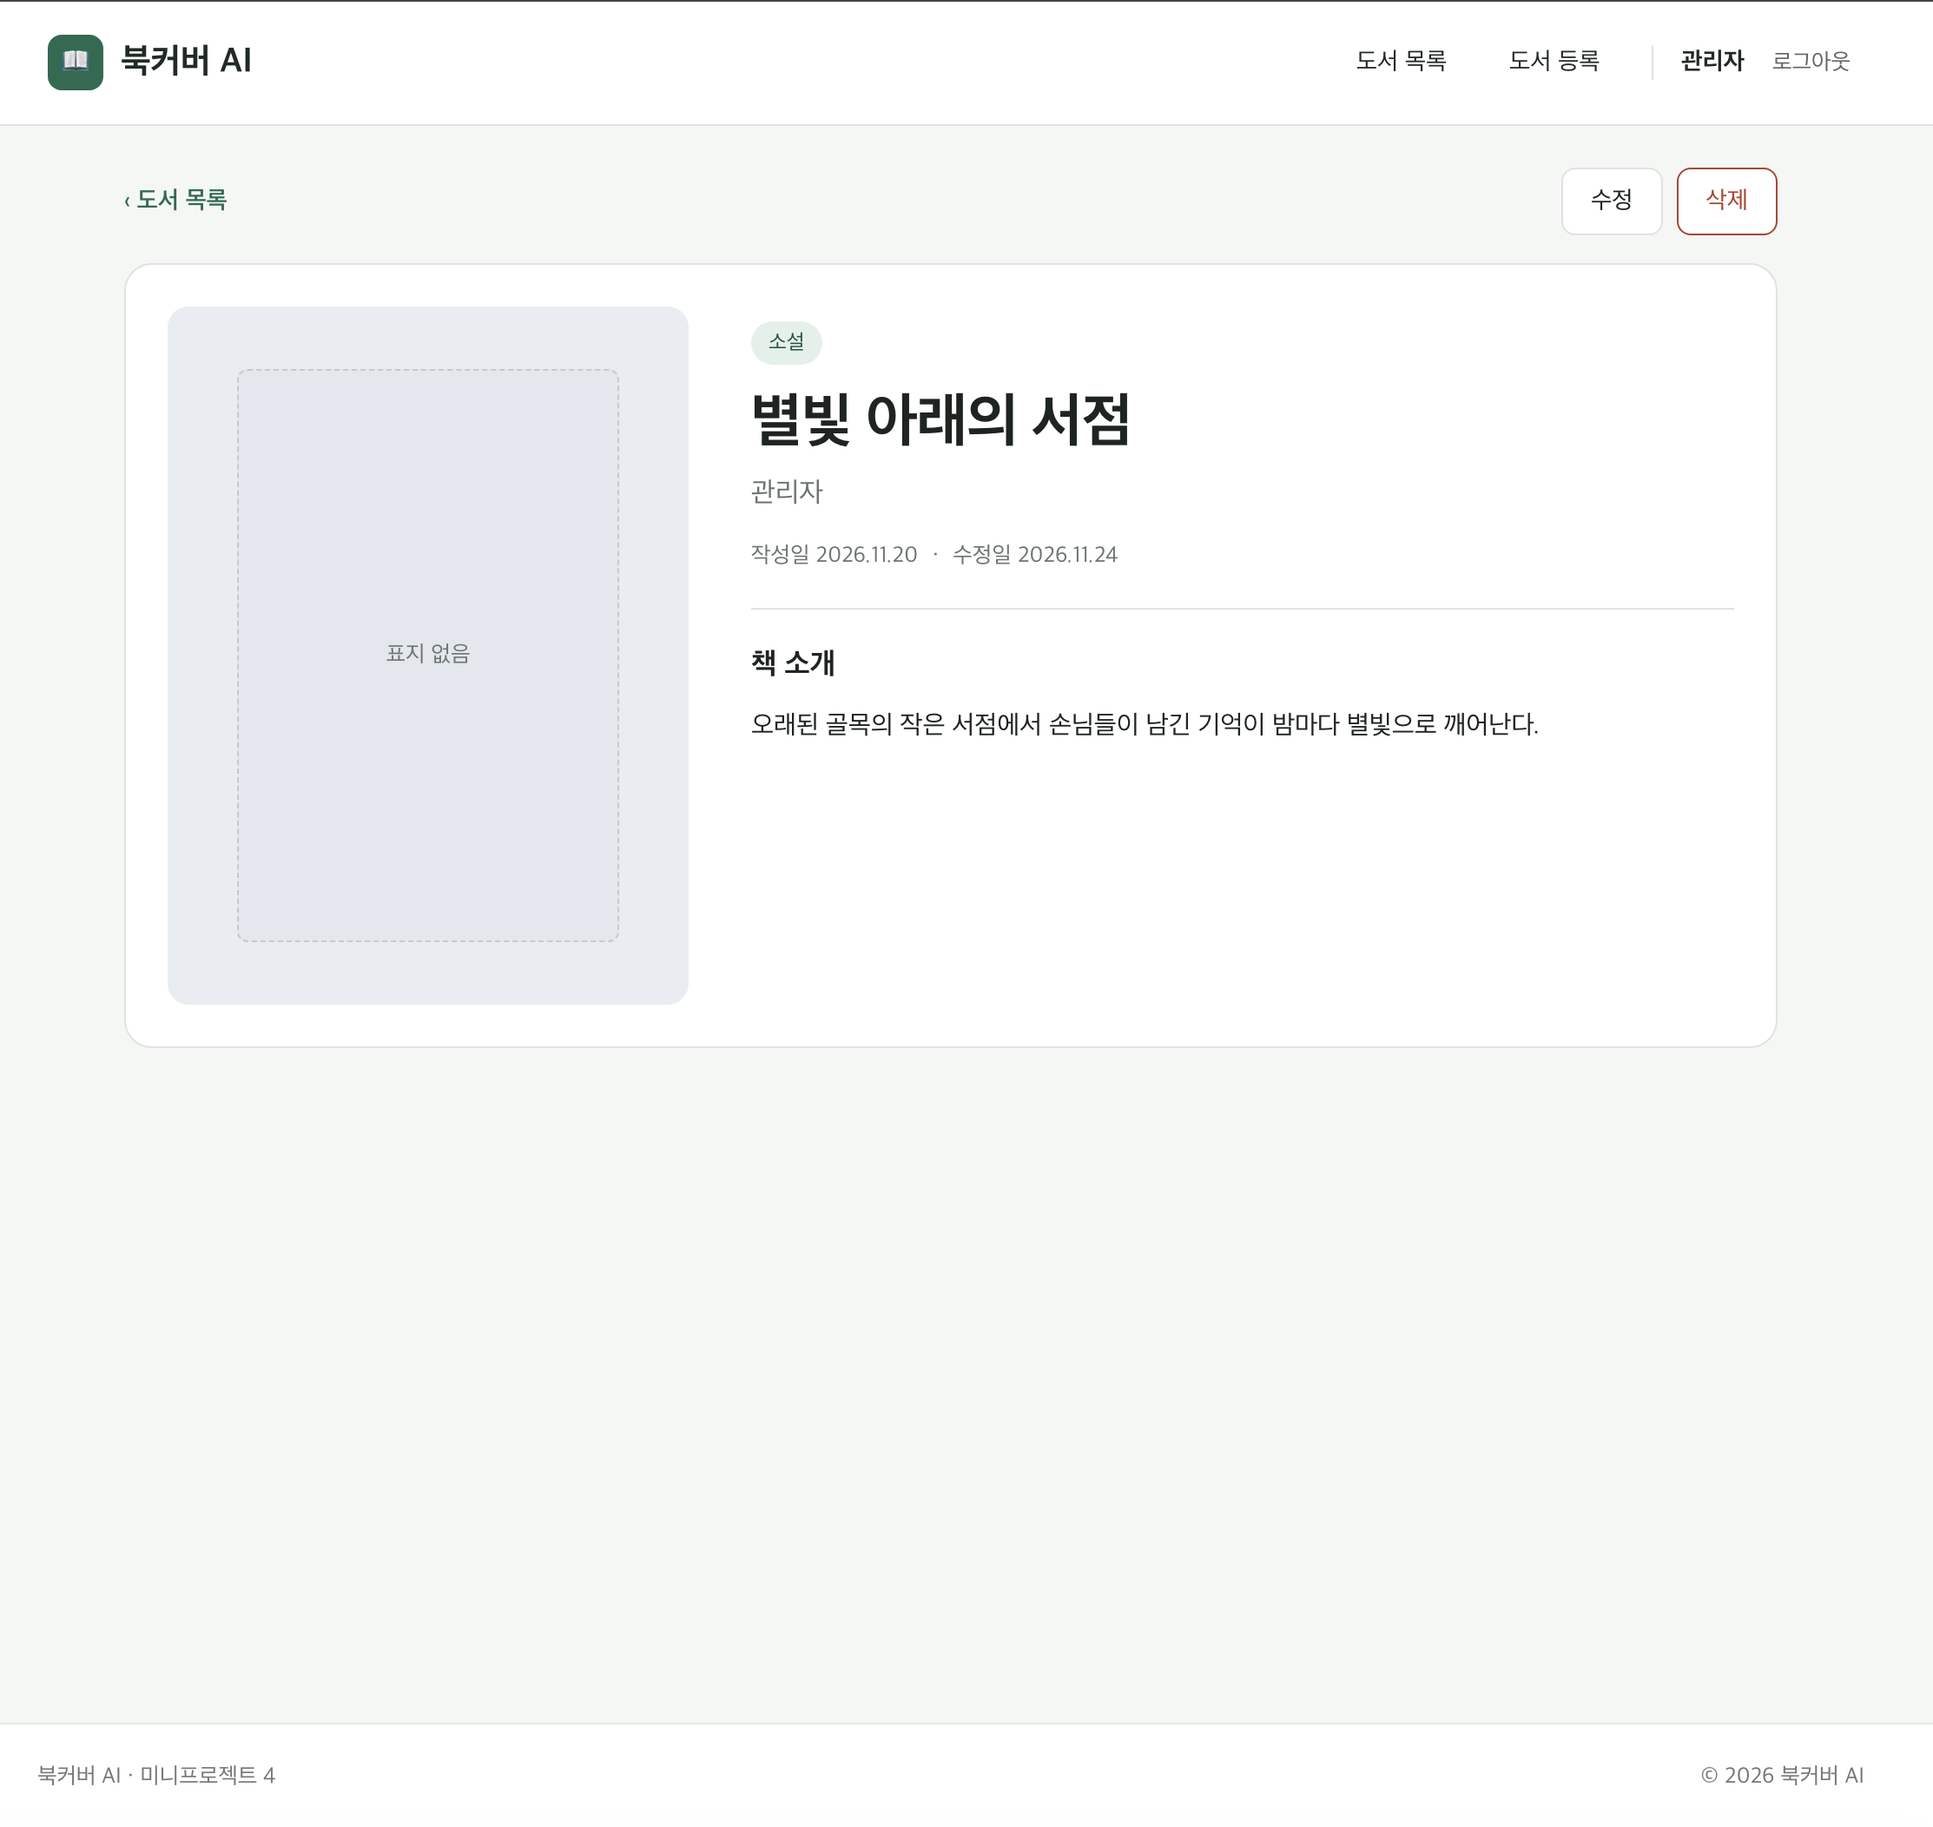
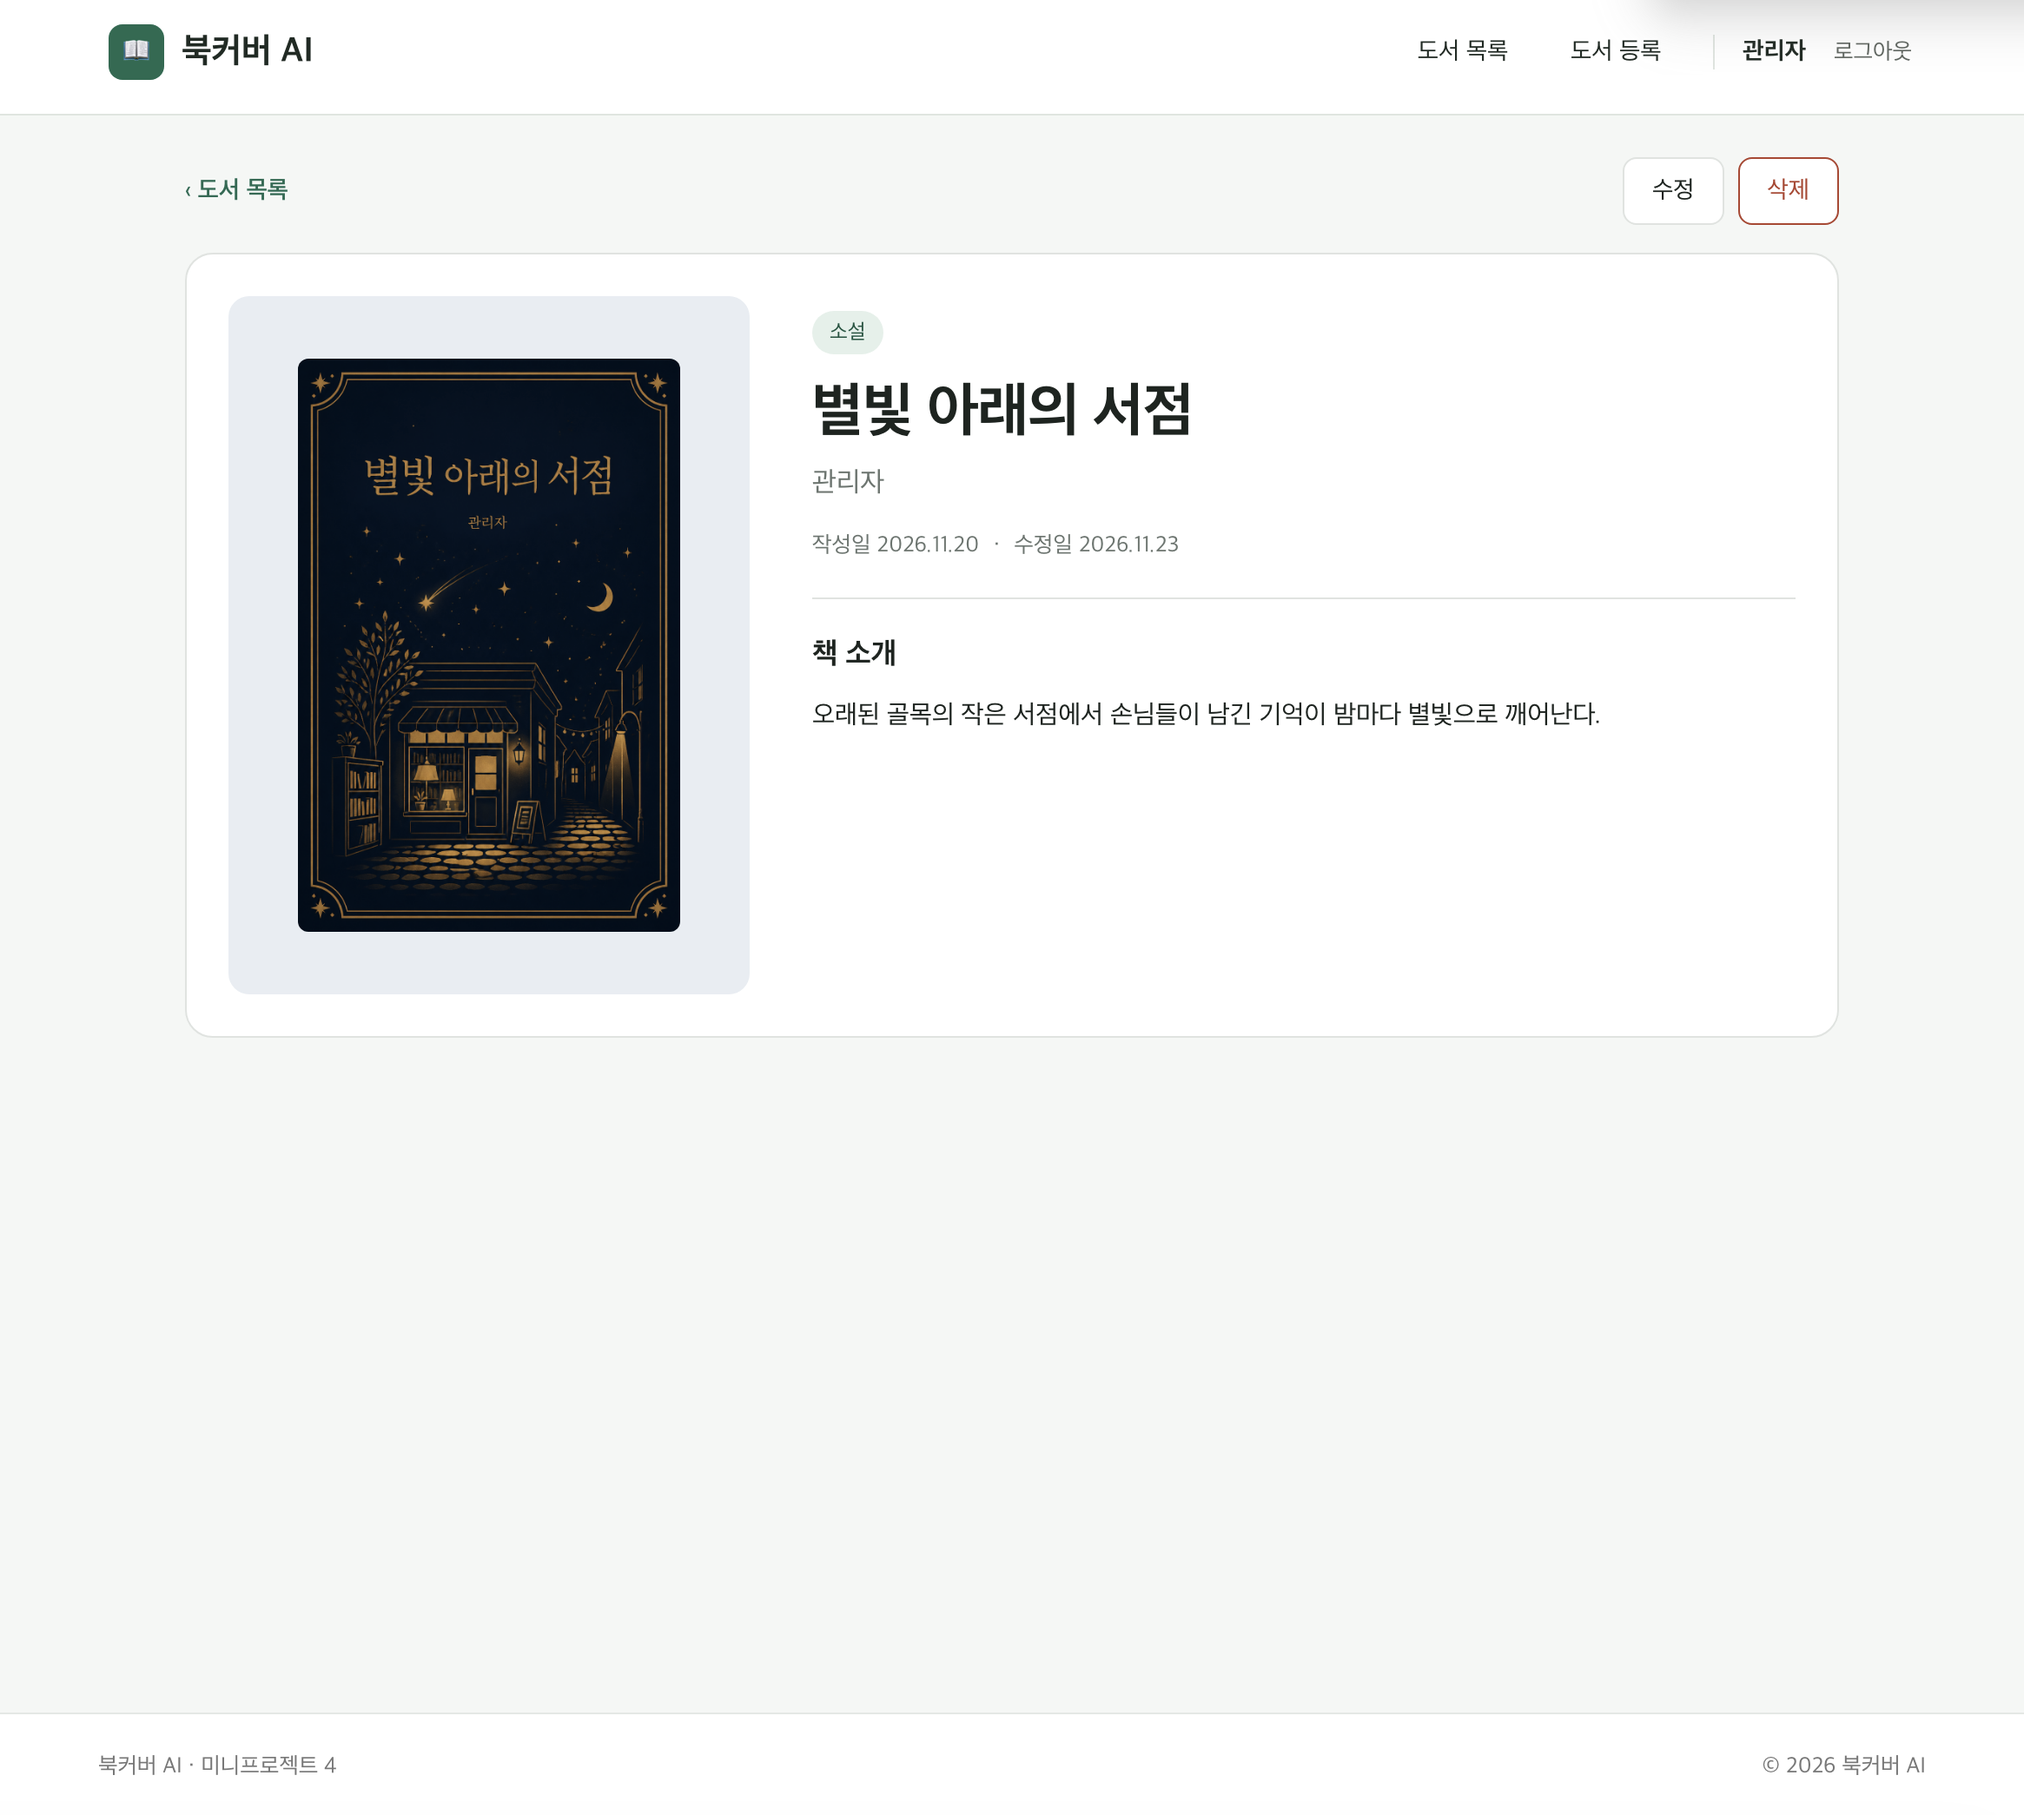
fix: README changes

diff --git a/README.md b/README.md
@@ -1,42 +1,6 @@
-# React + Vite
-
-## 로컬 조회 API
-
-프로젝트 루트에서 `npm ci`로 의존성을 설치한 뒤 `npm run dev:api`를 실행합니다. React 개발 서버는 다른 터미널에서 `npm run dev`로 실행할 수 있습니다.
-
-기본 주소는 `http://127.0.0.1:3000`입니다. React에서 사용할 API 주소는 `.env`의 `VITE_API_URL`로 설정합니다.
-
-| GET 경로 | 용도 |
-| --- | --- |
-| `/books` | 전체 도서 목록 |
-| `/books/1` | 숫자 `ID`로 도서 한 권 조회 |
-| `/books?AUTHOR_ID=demo-seoyun&GENRE=1` | 작성자와 장르로 필터링 |
-| `/user?USER_ID=demo-seoyun` | 샘플 유저 조회 |
-| `/genre` | 장르 전체 조회 |
-| `/genre?GENRE_CODE=1` | 장르 코드로 조회 |
-
-`db.json`의 도서 `GENRE`는 장르의 `GENRE_CODE`와 연결됩니다. 샘플 유저의 `PASSWORD`와 도서의 `COVER_IMAGE_URL`은 빈 문자열입니다. 이 서버에서는 GET 조회만 지원합니다.
-
-This template provides a minimal setup to get React working in Vite with HMR and some Oxlint rules.
-
-Currently, two official plugins are available:
-
-- [@vitejs/plugin-react](https://github.com/vitejs/vite-plugin-react/blob/main/packages/plugin-react) uses [Oxc](https://oxc.rs)
-- [@vitejs/plugin-react-swc](https://github.com/vitejs/vite-plugin-react/blob/main/packages/plugin-react-swc) uses [SWC](https://swc.rs/)
-
-## React Compiler
-
-The React Compiler is not enabled on this template because of its impact on dev & build performances. To add it, see [this documentation](https://react.dev/learn/react-compiler/installation).
-
-## Expanding the Oxlint configuration
-
-If you are developing a production application, we recommend using TypeScript with type-aware lint rules enabled. Check out the [TS template](https://github.com/vitejs/vite/tree/main/packages/create-vite/template-react-ts) for information on how to integrate TypeScript and Oxlint's TypeScript related rules in your project.
-
-
-
 # 창작자를 위한 도서관리시스템
 
-> 도서를 등록·관리하고, 도서 내용에 어울리는 표지를 AI로 생성하는 웹 애플리케이션 (Frontend)
+> 창작자가 도서를 등록·관리하고, 도서 내용에 어울리는 표지를 AI로 생성하는 웹 애플리케이션 (Frontend)
 
 ## 프로젝트 개요
 
@@ -51,13 +15,13 @@ If you are developing a production application, we recommend using TypeScript wi
 
 | 구분 | 기능 |
 | --- | --- |
-| 로그인 | 아이디·비밀번호 로그인, 헤더에 유저 이름 표시와 로그아웃 |
+| 로그인 | 아이디·비밀번호 로그인, header에 유저 이름 표시와 로그아웃 |
 | 도서 목록 | 카드 목록, 검색어·장르·등록일 기간 필터, 최신 등록순 정렬, 로딩·에러·빈 목록 안내 |
 | 도서 등록 | 제목·작가·장르·책 소개 입력, 필수값 검증, 작성자는 로그인 정보로 자동 입력 |
-| 도서 상세 | 표지, 작성일·수정일, 본문 조회 |
-| 도서 수정 | 기존 정보를 불러와 수정 |
+| 도서 상세 | 각 BookCard에 대해 표지, 작성일·수정일, 본문 조회 |
+| 도서 수정 | 사용자 본인이 등록한 도서 기존 정보를 불러와 수정 |
 | 도서 삭제 | 목록에서 여러 권 선택 삭제, 상세에서 단건 삭제, 삭제 전 확인, 권한에 따른 삭제 제어 |
-| AI 표지 생성 | 수정 화면에서 도서 정보와 키워드로 OpenAI 이미지 생성 **(구현 중)** |
+| AI 표지 생성 | 수정 화면에서 도서 정보와 키워드로 OpenAI 표지 이미지 생성 |
 
 ## 기술 스택
 
@@ -189,7 +153,8 @@ API Key는 코드나 `db.json`에 저장하지 않습니다.
 ```text
 src/
 ├─ api/          useFetch.js            공통 API 요청 훅
-├─ components/   Header, Footer, BookForm, DeleteBookDialog, ImgGenerator* ...
+├─ assets/       ai-cover.png, book-delete.png, book-detail.png ...       
+├─ components/   Header, Footer, BookForm, DeleteBookDialog, ImgGenerator ...
 ├─ pages/        LoginPage, BookListPage, BookDetailPage, BookNewPage, BookEditPage
 ├─ styles/       화면·컴포넌트별 CSS
 ├─ utils/        bookPermissions.js     로그인 유저 확인, 삭제 권한 판단
@@ -228,10 +193,10 @@ src/
 | 쿼리 | 용도 |
 | --- | --- |
 | `AUTHOR_ID` | 작성자별 조회 (일반 사용자는 본인 ID, 관리자는 생략) |
-| `q` | 검색어 |
+| 화면 내 검색 | 조회된 도서 목록을 대상으로 제목(TITLE) 및 저자명(AUTHOR_NM) 기준 부분 일치 검색 |
 | `GENRE` | 장르 필터 |
 | `CREATED_AT_gte` | 등록일 기간 필터 (시작 날짜 이후) |
-| `_sort`, `_order` | 정렬 (`CREATED_AT`, `desc`) |
+| `_sort`, `_order` | 조회 결과 정렬 (`CREATED_AT`, `desc`) |
 
 ## 협업 방식
 
@@ -266,4 +231,3 @@ src/
 
 - 현재 백엔드는 json-server이며, 이후 Backend 미니프로젝트에서 Spring Boot로 교체할 예정입니다.
 - 로그인 확인은 `localStorage` 값을 화면 코드에서 확인하는 방식입니다. 삭제 권한도 화면과 버튼을 제어하는 용도이며, 서버 차원의 인증·권한 검사는 없습니다. 비밀번호가 `db.json`에 평문으로 저장되므로 연습용으로만 사용합니다.
-- AI 표지 생성은 구현 중입니다.
